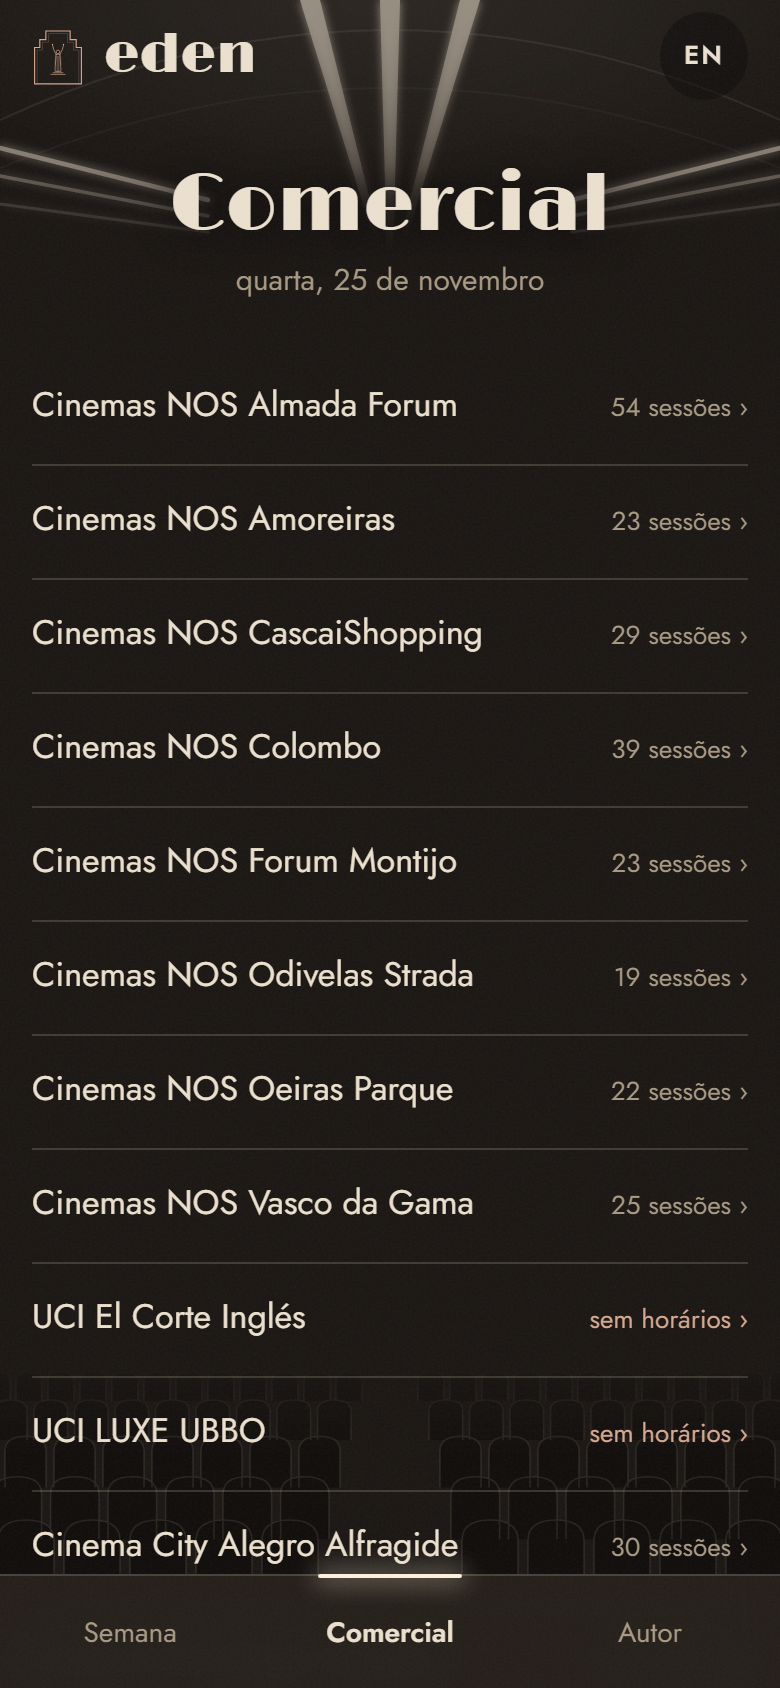
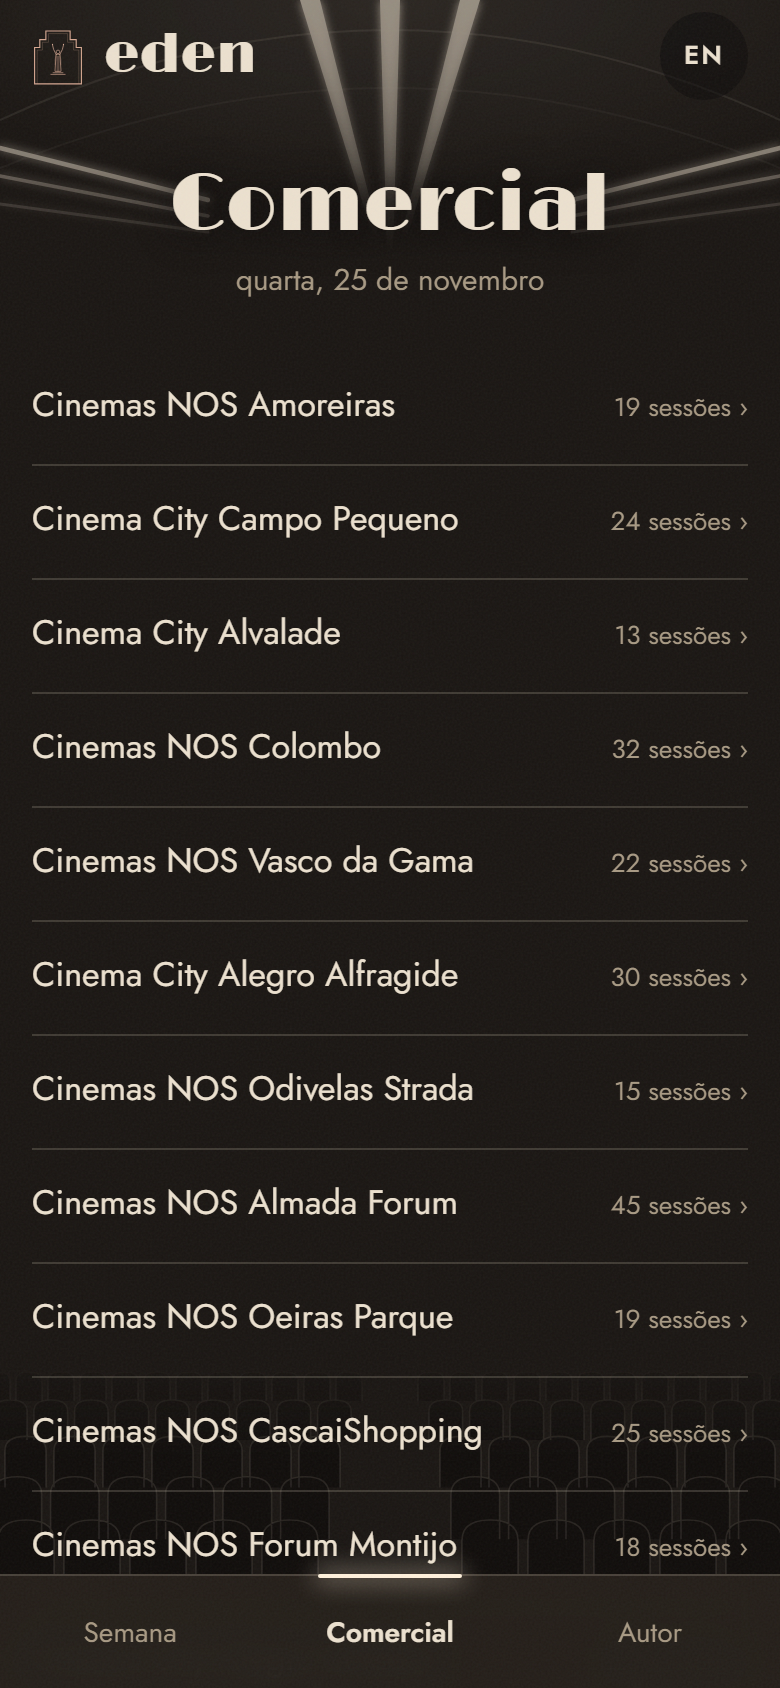
Order cinemas from the centre outwards; UCI last for now
Comercial/Autor lists, film-sheet cinema groups and same-time chips follow
CENTRE_OUT (Amoreiras, Campo Pequeno, Alvalade, Colombo … Montijo, Setúbal,
then the UCIs). On Semana the UCI "sem horários" notes move below the films.

diff --git a/web/src/lib/programme.ts b/web/src/lib/programme.ts
@@ -1,5 +1,5 @@
 /** Pure selectors over the programme JSON (no fetching here). */
-import { CINEMA_BY_ID, CINEMAS } from "@eden/shared";
+import { CINEMA_BY_ID, CINEMAS, cinemaRank } from "@eden/shared";
 import type { Cinema, Film, Programme, Session, SourceStatus } from "@eden/shared";
 import { addDays } from "./time.ts";
 
@@ -30,7 +30,8 @@ export function filmsOnDay(p: Programme, films: Map<string, Film>, date: string,
 }
 
 export function bySession(a: Session, b: Session): number {
-  return a.startsAt.localeCompare(b.startsAt) || (CINEMA_BY_ID.get(a.cinemaId)?.shortName ?? "").localeCompare(CINEMA_BY_ID.get(b.cinemaId)?.shortName ?? "", "pt");
+  // Same time → the cinema closer to the centre first.
+  return a.startsAt.localeCompare(b.startsAt) || cinemaRank(a.cinemaId) - cinemaRank(b.cinemaId);
 }
 
 /** One cinema's day as a timeline. */
@@ -53,7 +54,7 @@ export function filmSchedule(p: Programme, filmKey: string, fromDate: string, no
     .map(([date, cinemas]) => ({
       date,
       cinemas: [...cinemas].map(([cinemaId, sessions]) => ({ cinema: CINEMA_BY_ID.get(cinemaId)!, sessions: sessions.sort(bySession) }))
-        .sort((a, b) => bySession(a.sessions[0]!, b.sessions[0]!)),
+        .sort((a, b) => cinemaRank(a.cinema.id) - cinemaRank(b.cinema.id)), // centre-out (José)
     }));
 }
 
@@ -74,9 +75,10 @@ export interface CinemaStatus { cinema: Cinema; status?: SourceStatus }
 /** Cinemas whose source is not fresh — shown, never hidden (spec). */
 export function staleCinemas(p: Programme, kind?: Cinema["kind"]): CinemaStatus[] {
   return CINEMAS.filter((c) => (!kind || c.kind === kind) && p.sources[c.source] && !p.sources[c.source].ok)
+    .sort((a, b) => cinemaRank(a.id) - cinemaRank(b.id))
     .map((cinema) => ({ cinema, status: p.sources[cinema.source] }));
 }
 
 export function cinemasOfKind(kind: Cinema["kind"]): Cinema[] {
-  return CINEMAS.filter((c) => c.kind === kind);
+  return CINEMAS.filter((c) => c.kind === kind).sort((a, b) => cinemaRank(a.id) - cinemaRank(b.id));
 }

diff --git a/packages/shared/src/cinemas.ts b/packages/shared/src/cinemas.ts
@@ -34,6 +34,25 @@ export const CINEMAS: readonly Cinema[] = [
 
 export const CINEMA_BY_ID: ReadonlyMap<string, Cinema> = new Map(CINEMAS.map((c) => [c.id, c]));
 
+/**
+ * Display order: from the city centre (Baixa / Marquês) outwards (José, 25 Nov 2026).
+ * The UCIs go last for now — no times until UCI grants access (decision #33).
+ */
+export const CENTRE_OUT: readonly string[] = [
+  // arthouse
+  "ideal", "sao-jorge", "cinemateca", "nimas", "fernando-lopes",
+  // commercial
+  "nos-amoreiras", "cc-campo-pequeno", "cc-alvalade", "nos-colombo", "nos-vasco-da-gama", "cc-alegro-alfragide",
+  "nos-odivelas-strada", "nos-almada-forum", "nos-oeiras-parque", "nos-cascaishopping", "nos-forum-montijo", "cc-alegro-setubal",
+  "uci-el-corte-ingles", "uci-ubbo",
+];
+const RANK = new Map(CENTRE_OUT.map((id, i) => [id, i]));
+
+/** Lower = closer to the centre. */
+export function cinemaRank(id: string): number {
+  return RANK.get(id) ?? CENTRE_OUT.length;
+}
+
 export function cinemasForSource(source: Cinema["source"]): Cinema[] {
   return CINEMAS.filter((c) => c.source === source);
 }

diff --git a/scraper/test/cinemas.test.ts b/scraper/test/cinemas.test.ts
@@ -1,5 +1,5 @@
 import { describe, expect, it } from "vitest";
-import { CINEMAS } from "@eden/shared";
+import { CENTRE_OUT, CINEMAS } from "@eden/shared";
 
 describe("cinema config", () => {
   it("has exactly 19 cinemas with unique ids", () => {
@@ -9,6 +9,10 @@ describe("cinema config", () => {
   it("splits 14 commercial / 5 arthouse", () => {
     expect(CINEMAS.filter((c) => c.kind === "commercial")).toHaveLength(14);
     expect(CINEMAS.filter((c) => c.kind === "arthouse")).toHaveLength(5);
+  });
+  it("ranks every cinema centre-out, UCIs last", () => {
+    expect([...CENTRE_OUT].sort()).toEqual(CINEMAS.map((c) => c.id).sort());
+    expect(CENTRE_OUT.slice(-2)).toEqual(["uci-el-corte-ingles", "uci-ubbo"]);
   });
   it("has https venue urls", () => {
     for (const c of CINEMAS) expect(c.url).toMatch(/^https:\/\//);

diff --git a/web/src/styles.css b/web/src/styles.css
@@ -107,7 +107,7 @@ main { position: relative; z-index: 1; }
 /* ── Notes ────────────────────────────────────────────── */
 .note { color: var(--color-po); font-size: .875rem; margin: 12px 0 0; text-align: center; text-wrap: balance; }
 .offline { color: var(--color-pedra); }
-.stale-list { margin-top: 8px; }
+.stale-list { margin-top: 28px; }
 .stale { display: flex; flex-wrap: wrap; gap: 2px 10px; align-items: baseline; padding: 8px 0; margin: 0; border-bottom: 1px solid var(--fio); font-size: .8125rem; }
 .stale:first-child { border-top: 1px solid var(--fio); }
 .stale strong { font-weight: 600; }

diff --git a/web/src/App.tsx b/web/src/App.tsx
@@ -78,8 +78,9 @@ function Screens({ p, route, go }: { p: Programme; route: Route; go: (r: Route, 
         <PageTitle title={dayTitle} sub={daySub} />
         <DaySelector days={days} today={today} value={day} onChange={pickDay} />
         {beyondCommercialWeek(today, day) && <p className="note">{t.nextWeekNote}</p>}
-        <StaleNotes p={p} now={now} />
         <div className="list">{cards()}</div>
+        {/* Cinemas without times: still shown (never hidden), but after the films (José). */}
+        <StaleNotes p={p} now={now} />
       </>
     );
   } else {

diff --git a/docs/decisions.md b/docs/decisions.md
@@ -36,3 +36,4 @@
 | 32 | **Official sources only — Cinecartaz (Público) not used** (José, 25 Nov 2026). UCI times come from UCI's own pages, which load from GitHub Actions | Hard rule (no aggregators); Público's robots.txt disallows 181 automated agents incl. Claude agents; its listings are a compiled database (EU database right). Ideas from it are fine, content isn't. |
 | 33 | UCI blocked from GitHub Actions too (HTTP 403 "Sorry, you have been blocked", 25 Nov 2026); detector now recognises it. Only legitimate route left: ask UCI | No evasion (#16). |
 | 34 | José's app round (25 Nov 2026): Hoje tab dropped (Semana is home, today selected); cinema pages = film cards; film sheet links to IMDb / Letterboxd / TMDB / cinema page (`Film.pageUrl`, scraped); facade = opening splash; sala ceiling fixed on top + seat rows at the bottom; add-to-home-screen pop-up (Android install button, iOS two-tap hint, quiet 14 days after "Agora não") | Faster to the films; details one tap away without cluttering the app. |
+| 35 | Cinemas are listed centre-out (`CENTRE_OUT` in `packages/shared/src/cinemas.ts`): Comercial/Autor lists, film-sheet cinema groups, and same-time chips; the UCIs last while they have no times, and their "sem horários" notes sit below the films on Semana | José: what's closest first; UCI not useful until UCI grants access. |
